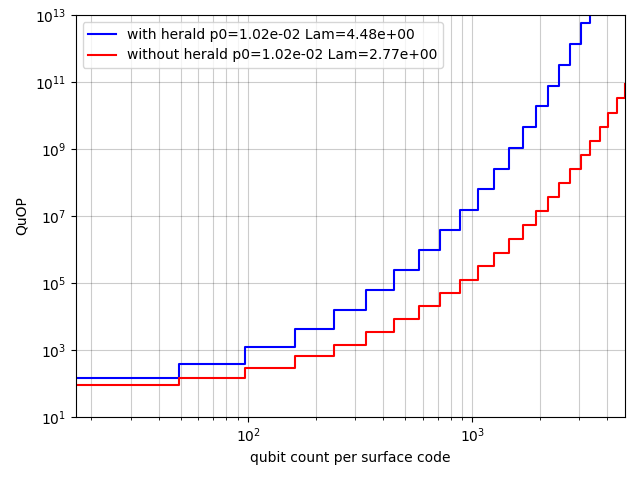
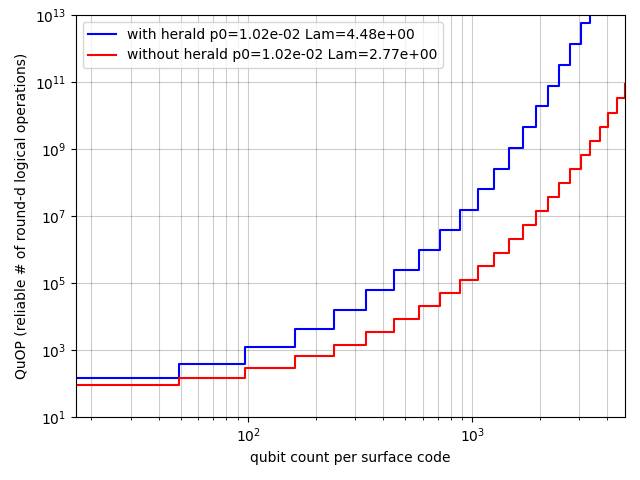
update figure

Changed region(s): [[0.0, 0.125, 0.0625, 0.5], [0.0, 0.5625, 0.0625, 0.6875], [0.0, 0.7188, 0.0625, 0.7812]]

diff --git a/plot.py b/plot.py
@@ -179,7 +179,7 @@ def plot(result_list: list[Result]) -> None:
     plt.xscale("log")
     plt.yscale("log")
     plt.xlabel("qubit count per surface code")
-    plt.ylabel("QuOP")
+    plt.ylabel("QuOP (reliable # of round-d logical operations)")
     plt.grid(which="major", color="black", linestyle="-", alpha=0.2)
     plt.grid(which="minor", color="black", linestyle="-", alpha=0.2)
     plt.legend()